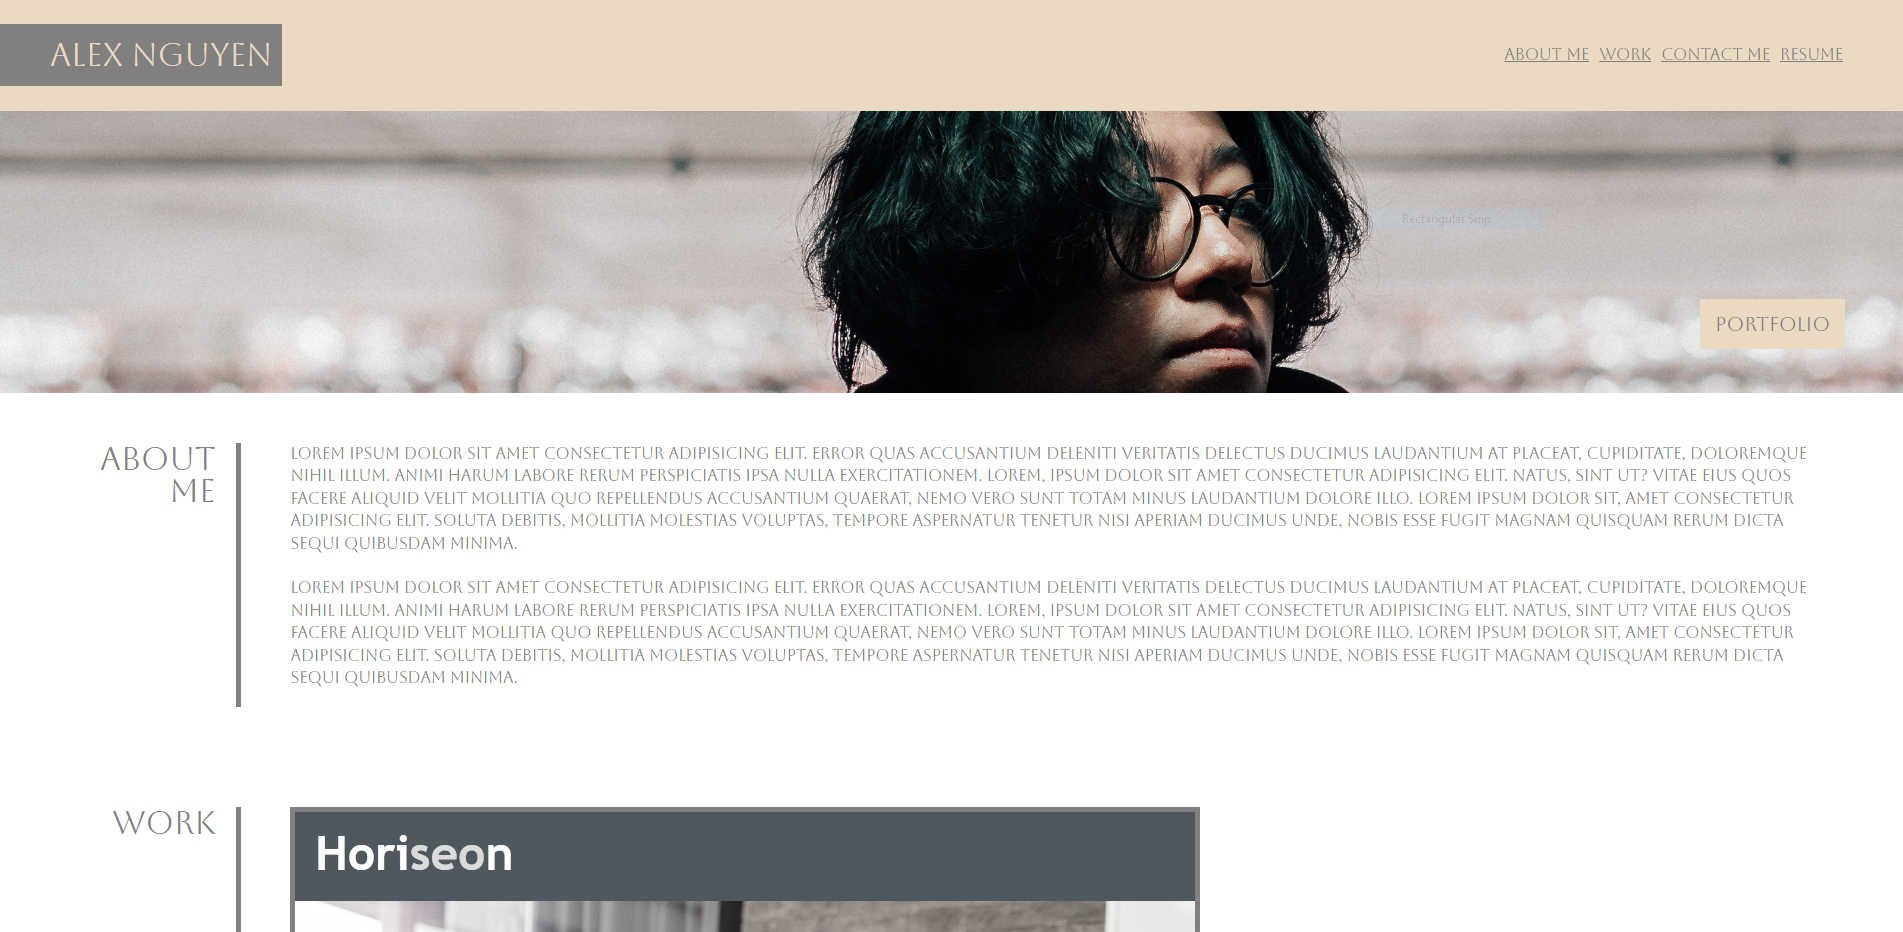
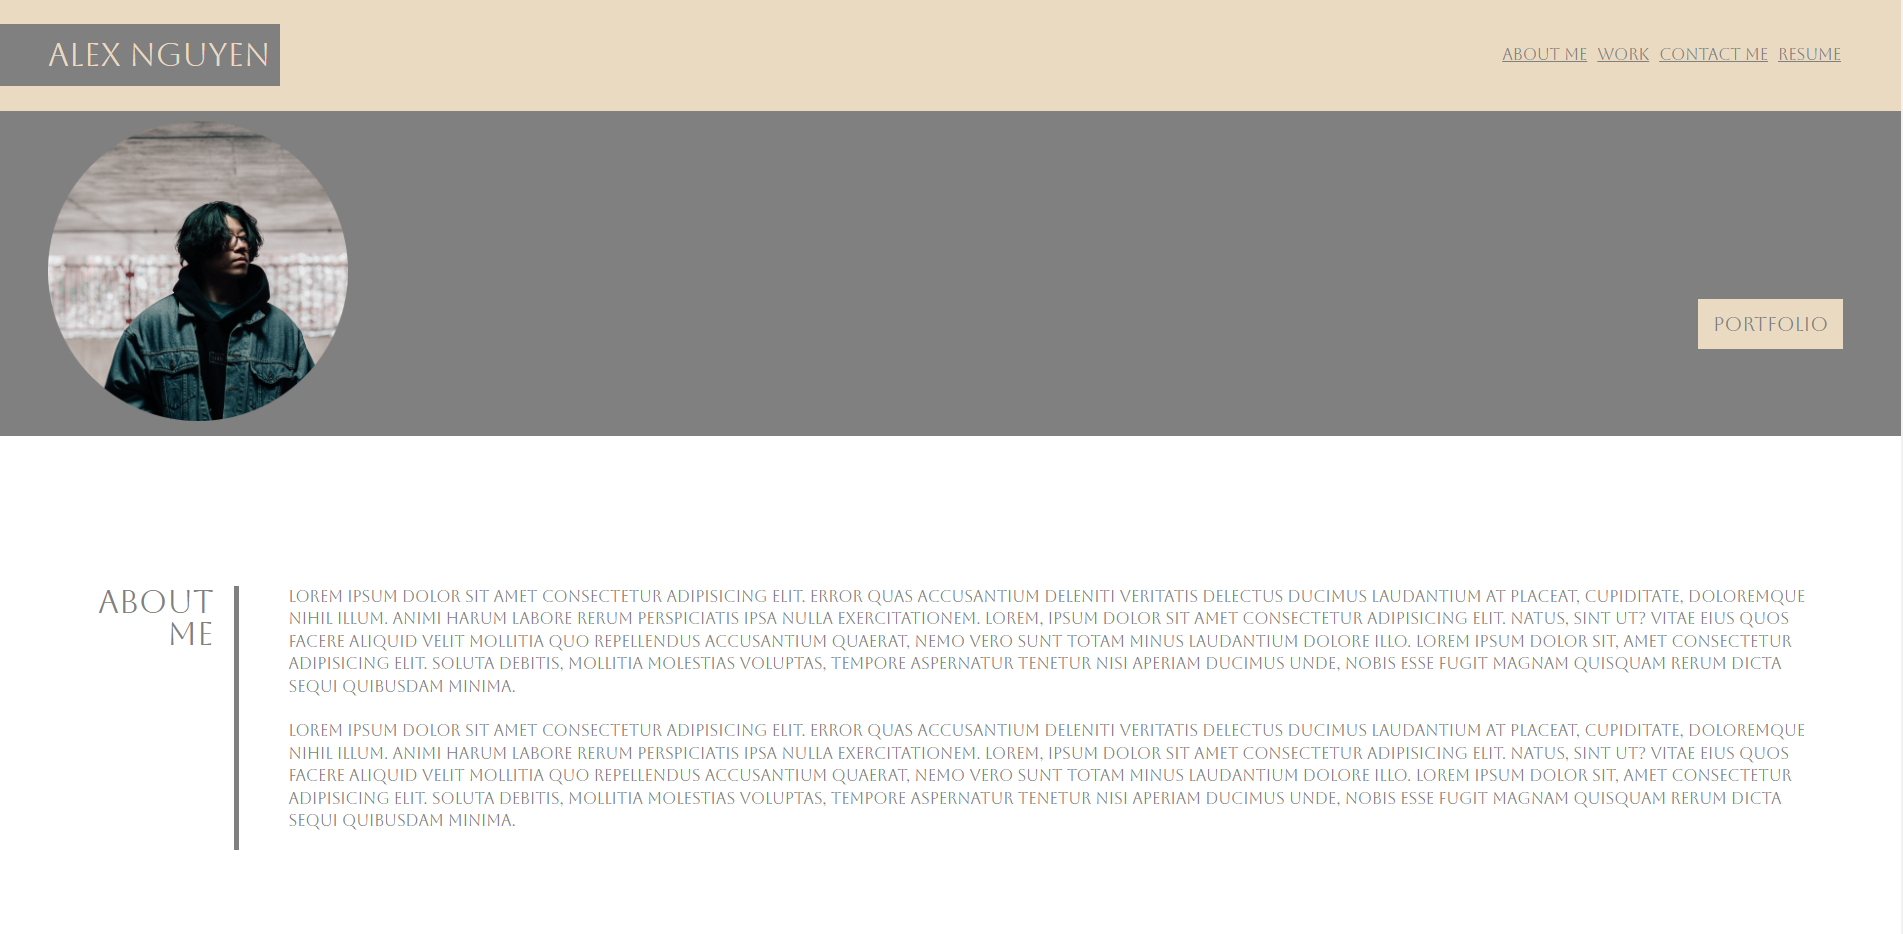
fixed issues with images

diff --git a/assets/style.css b/assets/style.css
@@ -58,13 +58,18 @@ main {
     padding-bottom: 50px;
 }
 
-.main-img {
-    height: 282px;
+.aside-header {
+    height: 325px;
     width: 100%;
-    margin-bottom: 25px;
-    background-image: url(./assets/images/_DSC2922.JPEG);
-    background-size: 125%;
-    background-position: center 45%;
+    margin-bottom: 150px;
+    background-color: grey;
+}
+
+.main-img {
+    max-height: 300px;
+    position: relative;
+    left: 50px;
+    margin-top: 10px;
 }
 
 .port-h2 {

diff --git a/index.html b/index.html
@@ -32,8 +32,9 @@
             </ul>
         </nav>
     </header>
-    <aside class="main-img">
+    <aside class="aside-header">
         <div>
+            <img class="main-img" src="./assets/images/_DSC2922-modified.png" alt="picture-of-me">
             <h2 class="port-h2">Portfolio</h2>
         </div>
     </aside>
